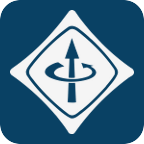
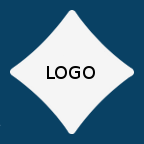
all ieee specific changes moved in child theme

diff --git a/library/css/style.css b/library/css/style.css
@@ -666,53 +666,53 @@ TYPOGRAPHY
 use the best ampersand
 http://simplebits.com/notebook/2008/08/14/ampersands-2/
 */
-/* line 125, ../scss/_mixins.scss */
+/* line 120, ../scss/_mixins.scss */
 span.amp {
   font-family: Baskerville,'Goudy Old Style',Palatino,'Book Antiqua',serif !important;
   font-style: italic;
 }
 
-/* line 131, ../scss/_mixins.scss */
+/* line 126, ../scss/_mixins.scss */
 .text-left {
   text-align: left;
 }
 
-/* line 132, ../scss/_mixins.scss */
+/* line 127, ../scss/_mixins.scss */
 .text-center {
   text-align: center;
 }
 
-/* line 133, ../scss/_mixins.scss */
+/* line 128, ../scss/_mixins.scss */
 .text-right {
   text-align: right;
 }
 
-/* line 137, ../scss/_mixins.scss */
+/* line 132, ../scss/_mixins.scss */
 .alert-help, .alert-info, .alert-error, .alert-success {
   margin: 10px;
   padding: 5px 18px;
   border: 1px solid;
 }
 
-/* line 143, ../scss/_mixins.scss */
+/* line 138, ../scss/_mixins.scss */
 .alert-help {
   border-color: #e8dc59;
   background: #ebe16f;
 }
 
-/* line 149, ../scss/_mixins.scss */
+/* line 144, ../scss/_mixins.scss */
 .alert-info {
   border-color: #bfe4f4;
   background: #d5edf8;
 }
 
-/* line 155, ../scss/_mixins.scss */
+/* line 150, ../scss/_mixins.scss */
 .alert-error {
   border-color: #f8cdce;
   background: #fbe3e4;
 }
 
-/* line 161, ../scss/_mixins.scss */
+/* line 156, ../scss/_mixins.scss */
 .alert-success {
   border-color: #deeaae;
   background: #e6efc2;
@@ -744,7 +744,7 @@ probably best not to use it. I mean, were you going to anyway? */
 /*********************
 BUTTONS
 *********************/
-/* line 243, ../scss/_mixins.scss */
+/* line 238, ../scss/_mixins.scss */
 .button, .button:visited {
   font-family: "Helvetica Neue", Helvetica, Arial, sans-serif;
   border: 1px solid #dedede;
@@ -768,7 +768,7 @@ BUTTONS
   background: -o-linear-gradient(top, white, #f2f2f2);
   background: linear-gradient(to bottom, #ffffff, #f2f2f2);
 }
-/* line 262, ../scss/_mixins.scss */
+/* line 257, ../scss/_mixins.scss */
 .button:hover, .button:focus, .button:visited:hover, .button:visited:focus {
   color: white;
   border: 1px solid #dedede;
@@ -781,7 +781,7 @@ BUTTONS
   background: -o-linear-gradient(top, #f2f2f2, #e6e6e6);
   background: linear-gradient(to bottom, #f2f2f2, #e6e6e6);
 }
-/* line 270, ../scss/_mixins.scss */
+/* line 265, ../scss/_mixins.scss */
 .button:active, .button:visited:active {
   background: white;
   background: -webkit-gradient(linear, left top, left bottom, from(#f2f2f2), to(white));
@@ -791,7 +791,7 @@ BUTTONS
   background: linear-gradient(to bottom, #f2f2f2, #ffffff);
 }
 
-/* line 275, ../scss/_mixins.scss */
+/* line 270, ../scss/_mixins.scss */
 .blue-button, .blue-button:visited {
   border-color: #1472ad;
   text-shadow: 0 1px 1px #1472ad;
@@ -803,7 +803,7 @@ BUTTONS
   background: linear-gradient(to bottom, #1990db, #1681c4);
   box-shadow: inset 0 0 3px #59b3ec;
 }
-/* line 281, ../scss/_mixins.scss */
+/* line 276, ../scss/_mixins.scss */
 .blue-button:hover, .blue-button:focus, .blue-button:visited:hover, .blue-button:visited:focus {
   border-color: #116396;
   background: #1472ad;
@@ -813,7 +813,7 @@ BUTTONS
   background: -o-linear-gradient(top, #1784c9, #1472ad);
   background: linear-gradient(to bottom, #1784c9, #1472ad);
 }
-/* line 285, ../scss/_mixins.scss */
+/* line 280, ../scss/_mixins.scss */
 .blue-button:active, .blue-button:visited:active {
   background: #1990db;
   background: -webkit-gradient(linear, left top, left bottom, from(#1681c4), to(#1990db));
@@ -1931,22 +1931,27 @@ you can add resource intensive styles.
   /*********************
   SIDEBARS & ASIDES
   *********************/
-  /* line 194, ../scss/_768up.scss */
+  /* line 192, ../scss/_768up.scss */
+  .sidebar {
+    margin-top: 30px;
+  }
+
+  /* line 196, ../scss/_768up.scss */
   .widgettitle {
     margin-bottom: 0.75em;
   }
 
-  /* line 198, ../scss/_768up.scss */
+  /* line 200, ../scss/_768up.scss */
   .widget {
     padding: 0 10px;
-    margin-bottom: 2.2em;
+    margin-bottom: 2.762430939%;
   }
-  /* line 203, ../scss/_768up.scss */
+  /* line 205, ../scss/_768up.scss */
   .widget ul li {
     margin-bottom: 0.75em;
     /* deep nesting */
   }
-  /* line 211, ../scss/_768up.scss */
+  /* line 213, ../scss/_768up.scss */
   .widget ul li ul {
     margin-top: 0.75em;
     padding-left: 1em;
@@ -1971,7 +1976,7 @@ you can add resource intensive styles.
   of overriding here if you styled them for
   mobile. Make sure to double check these!
   */
-  /* line 319, ../scss/_768up.scss */
+  /* line 321, ../scss/_768up.scss */
   .footer-links ul li {
     /*
     be careful with the depth of your menus.

diff --git a/library/css/ie.css b/library/css/ie.css
@@ -102,53 +102,53 @@ TYPOGRAPHY
 use the best ampersand
 http://simplebits.com/notebook/2008/08/14/ampersands-2/
 */
-/* line 125, ../scss/_mixins.scss */
+/* line 120, ../scss/_mixins.scss */
 span.amp {
   font-family: Baskerville,'Goudy Old Style',Palatino,'Book Antiqua',serif !important;
   font-style: italic;
 }
 
-/* line 131, ../scss/_mixins.scss */
+/* line 126, ../scss/_mixins.scss */
 .text-left {
   text-align: left;
 }
 
-/* line 132, ../scss/_mixins.scss */
+/* line 127, ../scss/_mixins.scss */
 .text-center {
   text-align: center;
 }
 
-/* line 133, ../scss/_mixins.scss */
+/* line 128, ../scss/_mixins.scss */
 .text-right {
   text-align: right;
 }
 
-/* line 137, ../scss/_mixins.scss */
+/* line 132, ../scss/_mixins.scss */
 .alert-help, .alert-info, .alert-error, .alert-success {
   margin: 10px;
   padding: 5px 18px;
   border: 1px solid;
 }
 
-/* line 143, ../scss/_mixins.scss */
+/* line 138, ../scss/_mixins.scss */
 .alert-help {
   border-color: #e8dc59;
   background: #ebe16f;
 }
 
-/* line 149, ../scss/_mixins.scss */
+/* line 144, ../scss/_mixins.scss */
 .alert-info {
   border-color: #bfe4f4;
   background: #d5edf8;
 }
 
-/* line 155, ../scss/_mixins.scss */
+/* line 150, ../scss/_mixins.scss */
 .alert-error {
   border-color: #f8cdce;
   background: #fbe3e4;
 }
 
-/* line 161, ../scss/_mixins.scss */
+/* line 156, ../scss/_mixins.scss */
 .alert-success {
   border-color: #deeaae;
   background: #e6efc2;
@@ -180,7 +180,7 @@ probably best not to use it. I mean, were you going to anyway? */
 /*********************
 BUTTONS
 *********************/
-/* line 243, ../scss/_mixins.scss */
+/* line 238, ../scss/_mixins.scss */
 .button, .button:visited {
   font-family: "Helvetica Neue", Helvetica, Arial, sans-serif;
   border: 1px solid #dedede;
@@ -204,7 +204,7 @@ BUTTONS
   background: -o-linear-gradient(top, white, #f2f2f2);
   background: linear-gradient(to bottom, #ffffff, #f2f2f2);
 }
-/* line 262, ../scss/_mixins.scss */
+/* line 257, ../scss/_mixins.scss */
 .button:hover, .button:focus, .button:visited:hover, .button:visited:focus {
   color: white;
   border: 1px solid #dedede;
@@ -217,7 +217,7 @@ BUTTONS
   background: -o-linear-gradient(top, #f2f2f2, #e6e6e6);
   background: linear-gradient(to bottom, #f2f2f2, #e6e6e6);
 }
-/* line 270, ../scss/_mixins.scss */
+/* line 265, ../scss/_mixins.scss */
 .button:active, .button:visited:active {
   background: white;
   background: -webkit-gradient(linear, left top, left bottom, from(#f2f2f2), to(white));
@@ -227,7 +227,7 @@ BUTTONS
   background: linear-gradient(to bottom, #f2f2f2, #ffffff);
 }
 
-/* line 275, ../scss/_mixins.scss */
+/* line 270, ../scss/_mixins.scss */
 .blue-button, .blue-button:visited {
   border-color: #1472ad;
   text-shadow: 0 1px 1px #1472ad;
@@ -239,7 +239,7 @@ BUTTONS
   background: linear-gradient(to bottom, #1990db, #1681c4);
   box-shadow: inset 0 0 3px #59b3ec;
 }
-/* line 281, ../scss/_mixins.scss */
+/* line 276, ../scss/_mixins.scss */
 .blue-button:hover, .blue-button:focus, .blue-button:visited:hover, .blue-button:visited:focus {
   border-color: #116396;
   background: #1472ad;
@@ -249,7 +249,7 @@ BUTTONS
   background: -o-linear-gradient(top, #1784c9, #1472ad);
   background: linear-gradient(to bottom, #1784c9, #1472ad);
 }
-/* line 285, ../scss/_mixins.scss */
+/* line 280, ../scss/_mixins.scss */
 .blue-button:active, .blue-button:visited:active {
   background: #1990db;
   background: -webkit-gradient(linear, left top, left bottom, from(#1681c4), to(#1990db));
@@ -596,22 +596,27 @@ POSTS & CONTENT STYLES
 /*********************
 SIDEBARS & ASIDES
 *********************/
-/* line 194, ../scss/_768up.scss */
+/* line 192, ../scss/_768up.scss */
+.sidebar {
+  margin-top: 30px;
+}
+
+/* line 196, ../scss/_768up.scss */
 .widgettitle {
   margin-bottom: 0.75em;
 }
 
-/* line 198, ../scss/_768up.scss */
+/* line 200, ../scss/_768up.scss */
 .widget {
   padding: 0 10px;
-  margin-bottom: 2.2em;
+  margin-bottom: 2.762430939%;
 }
-/* line 203, ../scss/_768up.scss */
+/* line 205, ../scss/_768up.scss */
 .widget ul li {
   margin-bottom: 0.75em;
   /* deep nesting */
 }
-/* line 211, ../scss/_768up.scss */
+/* line 213, ../scss/_768up.scss */
 .widget ul li ul {
   margin-top: 0.75em;
   padding-left: 1em;
@@ -636,7 +641,7 @@ you'll probably need to do quite a bit
 of overriding here if you styled them for
 mobile. Make sure to double check these!
 */
-/* line 319, ../scss/_768up.scss */
+/* line 321, ../scss/_768up.scss */
 .footer-links ul li {
   /*
   be careful with the depth of your menus.

diff --git a/style.css b/style.css
@@ -1,6 +1,6 @@
 /******************************************************************
-Theme Name: Flat Design ala IEEE
-Theme URI: https://github.com/maxklenk/flatdesign/tree/ieee
+Theme Name: Flat Design
+Theme URI: https://github.com/maxklenk/flatdesign/
 Description: Responsive 'Flat Design' theme. This site was built using the Bones Development Theme. For more information about Bones or to view documentation, you can visit the <a href="https://github.com/eddiemachado/bones/issues" title="Bones Issues">Bones Issues</a> page on Github.
 Author: Max Klenk & Sebastian Henneberg
 Author URI: https://github.com/maxklenk/

diff --git a/library/scss/_mixins.scss b/library/scss/_mixins.scss
@@ -66,13 +66,8 @@ $link-color:        $white;
 $link-hover:        darken($link-color, 15%);
 
 $fallback-page-background:     #186185;
-//$nav-background:      #144c67;
-//$nav-selection:       #3a7b8e;
-//$nav2-selection:      #5a7b8e;
 $nav-border: #f8f8f8;
 $content-background:  #1a5b79;
-$ieee-gradient-start: #61a3c3;
-$ieee-gradient-end:   #33839e;
 
 $transparent-dark: rgba(0, 0, 0, 0.15);
 //$fallback-dark:

diff --git a/library/scss/_768up.scss b/library/scss/_768up.scss
@@ -189,7 +189,9 @@ POSTS & CONTENT STYLES
 SIDEBARS & ASIDES
 *********************/
 
-.sidebar {}
+.sidebar {
+	margin-top: 30px;
+}
 
 	.widgettitle {
 		margin-bottom: 0.75em;
@@ -197,7 +199,7 @@ SIDEBARS & ASIDES
 
 	.widget {
 		padding: 0 10px;
-		margin-bottom: 2.2em;
+		margin-bottom: 2.762430939%;
 
 		ul {
 			li {

diff --git a/library/scss/_base.scss b/library/scss/_base.scss
@@ -231,7 +231,7 @@ and more scalable.
             	border: none;
 
             	padding-left: 30px;
-            	background: url(../images/search.png)0 50% no-repeat;
+            	background: url(../images/search.png) 0 50% no-repeat;
             }
 		}
 

diff --git a/header.php b/header.php
@@ -19,14 +19,14 @@
 		<meta name="viewport" content="width=device-width, initial-scale=1.0"/>
 
 		<!-- icons & favicons (for more: http://www.jonathantneal.com/blog/understand-the-favicon/) -->
-		<link rel="apple-touch-icon" href="<?php echo get_template_directory_uri(); ?>/library/images/apple-icon-touch.png">
-		<link rel="icon" href="<?php echo get_template_directory_uri(); ?>/favicon.png">
+		<link rel="apple-touch-icon" href="<?php echo get_stylesheet_directory_uri(); ?>/library/images/apple-icon-touch.png">
+		<link rel="icon" href="<?php echo get_stylesheet_directory_uri(); ?>/favicon.png">
 		<!--[if IE]>
-			<link rel="shortcut icon" href="<?php echo get_template_directory_uri(); ?>/favicon.ico">
+			<link rel="shortcut icon" href="<?php echo get_stylesheet_directory_uri(); ?>/favicon.ico">
 		<![endif]-->
 		<!-- or, set /favicon.ico for IE10 win -->
 		<meta name="msapplication-TileColor" content="#094164">
-		<meta name="msapplication-TileImage" content="<?php echo get_template_directory_uri(); ?>/library/images/win8-tile-icon.png">
+		<meta name="msapplication-TileImage" content="<?php echo get_stylesheet_directory_uri(); ?>/library/images/win8-tile-icon.png">
 
 		<link rel="pingback" href="<?php bloginfo('pingback_url'); ?>">
 
@@ -48,7 +48,7 @@
 				<div id="inner-header" class="wrap clearfix">
 
 					<a href="<?php echo home_url(); ?>" rel="nofollow">
-						<img id="header-logo" src="<?php echo get_template_directory_uri(); ?>/library/images/ieee_header_logo.png" />
+						<img id="header-logo" src="<?php echo get_stylesheet_directory_uri(); ?>/library/images/header-logo.png" />
 						<?php echo get_flatdesign_header_image(); ?>
 					</a>
 					
